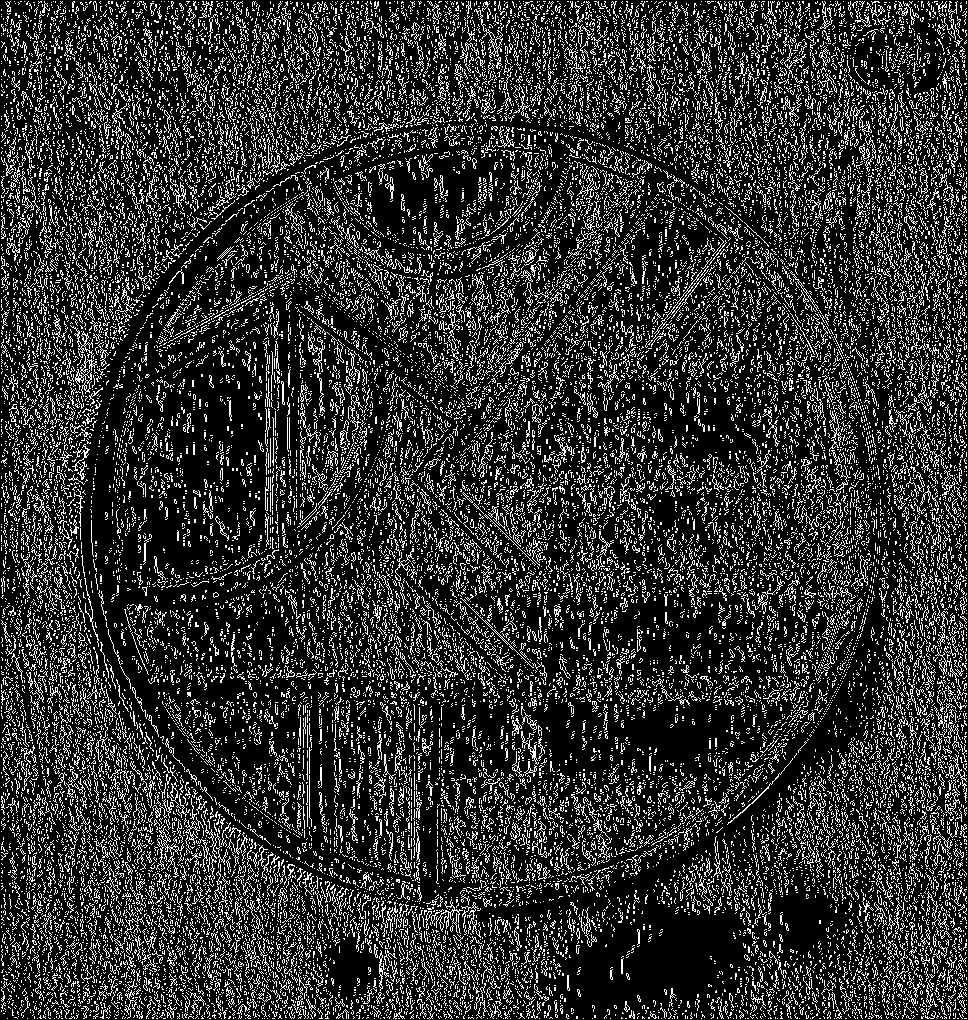
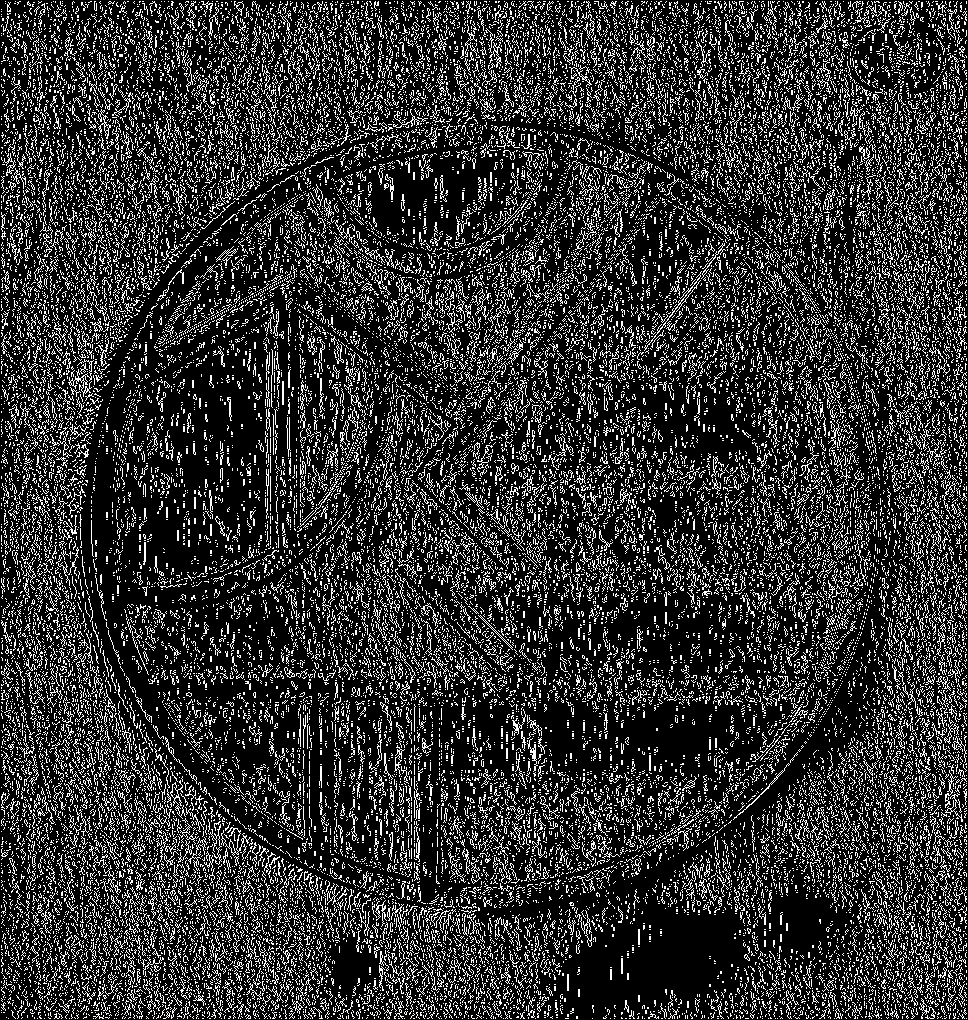
fix: h-lines function

diff --git a/src/main.rs b/src/main.rs
@@ -10,30 +10,23 @@ fn main() {
 
         let gray_image_data = convert_to_grayscale(&img_data);
 
-        let sigma = 100.0; // Standard deviation of the Gaussian kernel
+        let sigma = 1.0; 
         let blurred_image = apply_gaussian_blur(&gray_image_data, sigma);
         let (gradient_x, gradient_y) = compute_gradients(&blurred_image);
 
 
         let suppressed_image = non_maximum_suppression(&gradient_x, &gradient_y);
 
-        let thresholded_image = apply_hysteresis_thresholding(&suppressed_image, 150, 200); // Adjust thresholds as needed
+        let thresholded_image = apply_hysteresis_thresholding(&suppressed_image, 150, 200);
 
-        // Save the result
         thresholded_image.save("thresholded_image.png").expect("Failed to save image");
-    // Save the result
-    // suppressed_image.save("suppressed_image.png").expect("Failed to save image");
-        // Save the gradient images
-        // gradient_x.save("gradient_x.png").expect("Failed to save gradient_x image");
-        // gradient_y.save("gradient_y.png").expect("Failed to save gradient_y image");
-        
+   
     } else {
         println!("Failed to open the PNG file");
     }
 }
 fn convert_to_grayscale(image_data: &image::RgbaImage) -> image::GrayImage {
     let mut gray_image_data = image::GrayImage::new(image_data.width(), image_data.height());
-
     for (x, y, pixel) in image_data.enumerate_pixels() {
         let r = pixel[0] as f32;
         let g = pixel[1] as f32;
@@ -41,17 +34,13 @@ fn convert_to_grayscale(image_data: &image::RgbaImage) -> image::GrayImage {
         let luminance = (0.2126 * r + 0.7152 * g + 0.0722 * b).round() as u8;
         gray_image_data.put_pixel(x, y, image::Luma([luminance]));
     }
-
     gray_image_data
 }
 
-
 fn apply_gaussian_blur(image: &image::GrayImage, sigma: f32) -> image::GrayImage {
-    // Apply Gaussian blur to the grayscale image
-    let kernel = gaussian_kernel(sigma); // Generate the Gaussian kernel
-    let mut blurred_image = image.clone();
 
-    // Convolve the image with the Gaussian kernel
+    let kernel = gaussian_kernel(sigma);
+    let mut blurred_image = image.clone();
     for y in 1..image.height() - 1 {
         for x in 1..image.width() - 1 {
             let mut sum = 0.0;
@@ -74,7 +63,6 @@ fn apply_gaussian_blur(image: &image::GrayImage, sigma: f32) -> image::GrayImage
 }
 
 fn gaussian_kernel(sigma: f32) -> [[f32; 3]; 3] {
-    // Generate a 3x3 Gaussian kernel with the given standard deviation
     let sigma_sq = sigma * sigma;
     let mut kernel = [[0.0; 3]; 3];
     let coefficient = 1.0 / (2.0 * std::f32::consts::PI * sigma_sq);
@@ -87,7 +75,6 @@ fn gaussian_kernel(sigma: f32) -> [[f32; 3]; 3] {
         }
     }
 
-    // Normalize the kernel
     let sum: f32 = kernel.iter().flat_map(|row| row.iter()).sum();
     for row in &mut kernel {
         for value in row {
